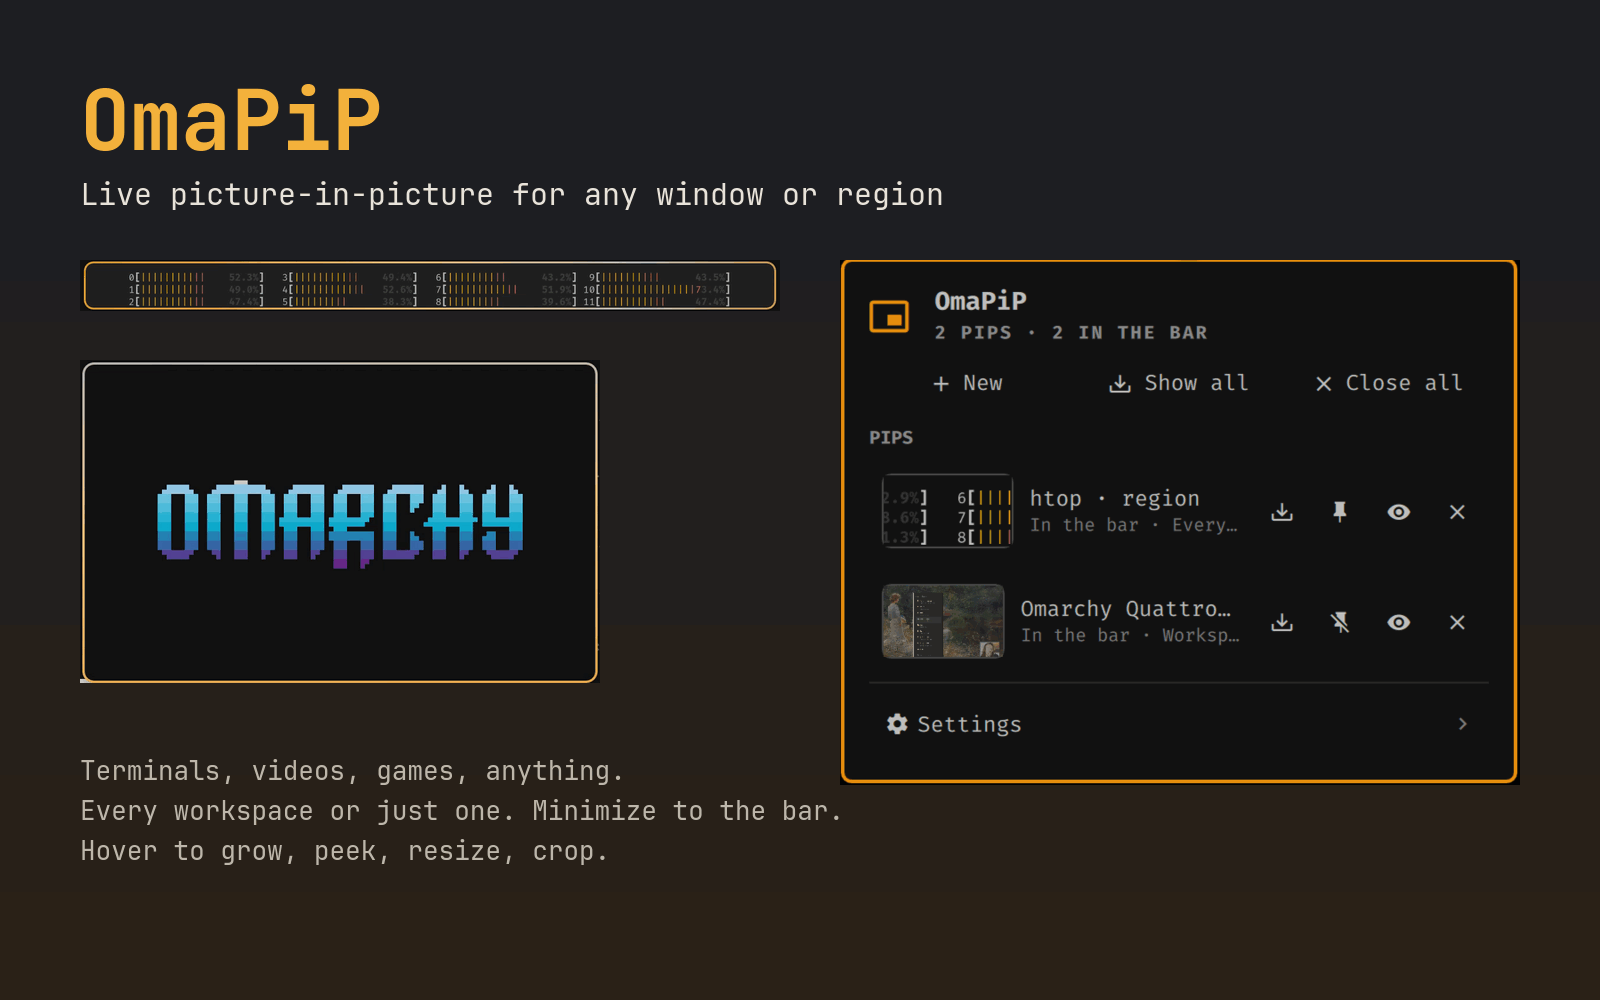
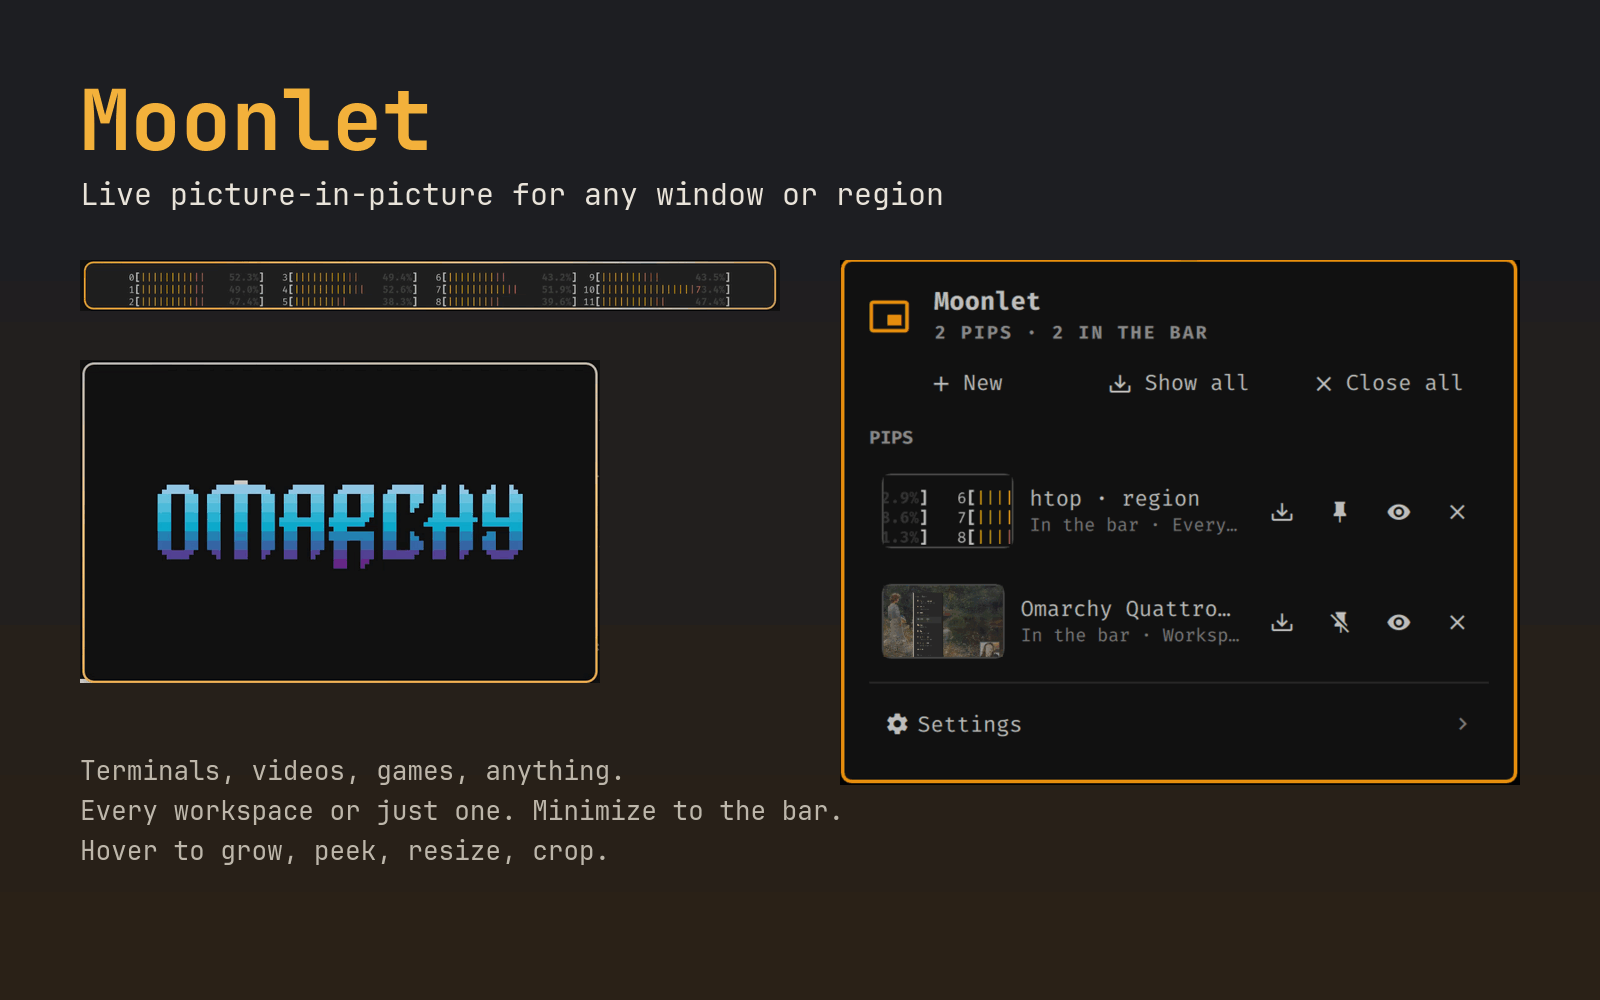
Rename to Moonlet; keep saved PiPs across a shell restart
OmaPiP was already taken by another project, so the plugin is now
Moonlet: id io.github.avillagran.moonlet, IPC target moonlet, files in
~/.config/moonlet and ~/.local/state/moonlet.

Right after a shell restart Hyprland's window list fills in over a few
moments, and pruning PiPs against a half-known list dropped PiPs whose
windows were still open. Prune only once the list holds steady.

Changed region(s): [[0.0312, 0.062, 0.2812, 0.155], [0.5625, 0.279, 0.6562, 0.31]]

diff --git a/Service.qml b/Service.qml
@@ -6,7 +6,7 @@ import qs.Commons
 import qs.Commons as Commons
 import "PipModel.js" as Model
 
-// OmaPiP: live picture-in-picture of any window or screen region.
+// Moonlet: live picture-in-picture of any window or screen region.
 //
 // Owns the PiPs and their settings, follows Hyprland's windows, hosts one
 // transparent layer per monitor for the floating PiPs, the picker, and the
@@ -21,10 +21,10 @@ Item {
   property var shell: null
   property var manifest: null
 
-  readonly property string pluginId: "io.github.avillagran.omapip"
+  readonly property string pluginId: "io.github.avillagran.moonlet"
   readonly property string home: Quickshell.env("HOME")
-  readonly property string configPath: (Quickshell.env("XDG_CONFIG_HOME") || home + "/.config") + "/omapip/settings.json"
-  readonly property string statePath: (Quickshell.env("XDG_STATE_HOME") || home + "/.local/state") + "/omapip/pips.json"
+  readonly property string configPath: (Quickshell.env("XDG_CONFIG_HOME") || home + "/.config") + "/moonlet/settings.json"
+  readonly property string statePath: (Quickshell.env("XDG_STATE_HOME") || home + "/.local/state") + "/moonlet/pips.json"
 
   Commons.Translations { id: strings; directory: Qt.resolvedUrl("i18n") }
   readonly property alias strings: strings
@@ -269,7 +269,7 @@ Item {
   }
 
   function notify(text) {
-    Quickshell.execDetached(["omarchy-notification-send", "--app-name", "OmaPiP", "-g", Model.GLYPHS.pip, "OmaPiP", String(text)])
+    Quickshell.execDetached(["omarchy-notification-send", "--app-name", "Moonlet", "-g", Model.GLYPHS.pip, "Moonlet", String(text)])
   }
 
   function monitorRect(name) {
@@ -567,13 +567,28 @@ Item {
     // are gone by now are dropped once the window list is known.
     pips = state.pips
     stateLoaded = true
+    Hyprland.refreshToplevels()
+    pruneTimer.lastCount = -1
+    pruneTimer.checks = 0
     pruneTimer.restart()
   }
 
+  // Right after a shell restart the window list fills in over a few
+  // moments; pruning against a half-known list dropped PiPs of windows that
+  // were still there. Wait until it holds steady first.
   Timer {
     id: pruneTimer
+    property int lastCount: -1
+    property int checks: 0
     interval: 1500
     onTriggered: {
+      var n = Hyprland.toplevels.values.length
+      if ((n === 0 || n !== lastCount) && checks < 20) {
+        lastCount = n
+        checks++
+        restart()
+        return
+      }
       var keep = root.pips.filter(function(p) { return p.kind !== "window" || !!root.toplevelMap[p.address] })
       if (keep.length !== root.pips.length) root.setPips(keep)
     }
@@ -596,9 +611,9 @@ Item {
   }
 
   // ---------------------------------------------------------------- IPC
-  // omarchy-shell omapip <method>
+  // omarchy-shell moonlet <method>
   ShellIpc {
-    target: "omapip"
+    target: "moonlet"
 
     function pick(): void { root.pick() }
     function toggle(): void { root.toggleAll() }

diff --git a/BarWidget.qml b/BarWidget.qml
@@ -13,13 +13,13 @@ import "PipModel.js" as Model
 // PiP and holds the cfg.
 Panel {
   id: root
-  moduleName: "io.github.avillagran.omapip"
-  ipcTarget: "io.github.avillagran.omapip"
+  moduleName: "io.github.avillagran.moonlet"
+  ipcTarget: "io.github.avillagran.moonlet"
 
   Commons.Translations { id: strings; directory: Qt.resolvedUrl("i18n") }
 
   readonly property var service: bar && bar.shell && typeof bar.shell.serviceFor === "function"
-    ? bar.shell.serviceFor("io.github.avillagran.omapip") : null
+    ? bar.shell.serviceFor("io.github.avillagran.moonlet") : null
   readonly property var cfg: service ? service.settings : Model.normalizeSettings({})
   readonly property var motion: service ? service.motion : Model.motion("extreme")
   readonly property var pips: service ? service.pips : []
@@ -334,7 +334,7 @@ Panel {
 
           PanelHero {
             width: parent.width
-            title: "OmaPiP"
+            title: "Moonlet"
             meta: root.pips.length === 0 ? strings.t("panel.empty")
               : strings.tn("panel.count", root.pips.length).arg(Commons.I18n.formatNumber(root.pips.length))
                 + (root.dockedPips.length > 0 ? " · " + strings.tn("panel.docked", root.dockedPips.length).arg(Commons.I18n.formatNumber(root.dockedPips.length)) : "")

diff --git a/PipLayer.qml b/PipLayer.qml
@@ -66,7 +66,7 @@ PanelWindow {
   exclusionMode: ExclusionMode.Ignore
   WlrLayershell.layer: settings.layer === "overlay" ? WlrLayer.Overlay : WlrLayer.Top
   WlrLayershell.keyboardFocus: WlrKeyboardFocus.None
-  WlrLayershell.namespace: "omapip"
+  WlrLayershell.namespace: "moonlet"
 
   // Input only where a PiP or the peek is.
   mask: Region {

diff --git a/Selector.qml b/Selector.qml
@@ -109,7 +109,7 @@ Item {
     id: overlay
     shownLayer: WlrLayer.Overlay
     shownKeyboardFocus: WlrKeyboardFocus.Exclusive
-    WlrLayershell.namespace: "omapip-picker"
+    WlrLayershell.namespace: "moonlet-picker"
 
     onContentRevealedChanged: if (contentRevealed) { root.loadWindows(); reload.restart(); keys.forceActiveFocus() }
 

diff --git a/PipModel.js b/PipModel.js
@@ -1,6 +1,6 @@
 .pragma library
 
-// Pure logic for OmaPiP: settings, the shape of a PiP, geometry and crops.
+// Pure logic for Moonlet: settings, the shape of a PiP, geometry and crops.
 // No QML types here, so tests/model.test.js can load it in Node.
 
 var VERSION = 1

diff --git a/README.md b/README.md
@@ -1,8 +1,8 @@
-# OmaPiP
+# Moonlet
 
 Live picture-in-picture for anything on your Omarchy desktop: a whole window, a corner of a window, or any region of the screen. Pick it and it floats above everything in a small live window. A terminal running a build, a game, a video in the browser, a dashboard, a chat: if it's on screen, it can be a PiP.
 
-![OmaPiP](preview.png)
+![Moonlet](preview.png)
 
 ## See it
 
@@ -34,7 +34,7 @@ Live picture-in-picture for anything on your Omarchy desktop: a whole window, a 
 
 | Panel | Settings |
 | --- | --- |
-| ![The OmaPiP panel](docs/screenshots/panel.jpg) | ![The settings list](docs/screenshots/settings.jpg) |
+| ![The Moonlet panel](docs/screenshots/panel.jpg) | ![The settings list](docs/screenshots/settings.jpg) |
 
 ## What it does
 
@@ -71,30 +71,30 @@ A PiP set to **click through** lets every click pass to what is underneath. Turn
 
 ### Keyboard shortcuts
 
-OmaPiP answers on the shell's IPC, so any key can drive it. For example, in `~/.config/hypr/bindings.lua`:
+Moonlet answers on the shell's IPC, so any key can drive it. For example, in `~/.config/hypr/bindings.lua`:
 
 ```lua
-o.bind("SUPER + ALT + P", "New PiP", "omarchy-shell omapip pick")
-o.bind("SUPER + ALT + O", "Dock or show PiPs", "omarchy-shell omapip toggle")
+o.bind("SUPER + ALT + P", "New PiP", "omarchy-shell moonlet pick")
+o.bind("SUPER + ALT + O", "Dock or show PiPs", "omarchy-shell moonlet toggle")
 -- A fixed PiP: the top of the window titled "htop"
-o.bind("SUPER + ALT + H", "htop PiP", "omarchy-shell omapip add title:htop 0,0,840,80")
+o.bind("SUPER + ALT + H", "htop PiP", "omarchy-shell moonlet add title:htop 0,0,840,80")
 ```
 
 | Command | What it does |
 | --- | --- |
-| `omarchy-shell omapip pick` | Open the picker |
-| `omarchy-shell omapip toggle` | Dock every PiP, or show them all |
-| `omarchy-shell omapip dockAll` / `showAll` / `closeAll` | What they say |
-| `omarchy-shell omapip add <target> [x,y,w,h]` | A PiP without the picker. Target: `screen`, `screen:NAME`, a window address, `class:TEXT` or `title:TEXT`. The rectangle is inside the window or screen, in logical pixels; leave it out for all of it. Prints the new PiP's id |
-| `omarchy-shell omapip dock <id>` / `undock <id>` / `close <id>` / `sticky <id>` | Act on one PiP |
-| `omarchy-shell omapip place <id> <x> <y> <width>` | Move and size a PiP (empty values keep the current one) |
-| `omarchy-shell omapip list` | The PiPs, with their positions, as JSON |
-| `omarchy-shell omapip settings` | The settings, as JSON |
-| `omarchy-shell omapip set <key> <value>` | Change a setting |
+| `omarchy-shell moonlet pick` | Open the picker |
+| `omarchy-shell moonlet toggle` | Dock every PiP, or show them all |
+| `omarchy-shell moonlet dockAll` / `showAll` / `closeAll` | What they say |
+| `omarchy-shell moonlet add <target> [x,y,w,h]` | A PiP without the picker. Target: `screen`, `screen:NAME`, a window address, `class:TEXT` or `title:TEXT`. The rectangle is inside the window or screen, in logical pixels; leave it out for all of it. Prints the new PiP's id |
+| `omarchy-shell moonlet dock <id>` / `undock <id>` / `close <id>` / `sticky <id>` | Act on one PiP |
+| `omarchy-shell moonlet place <id> <x> <y> <width>` | Move and size a PiP (empty values keep the current one) |
+| `omarchy-shell moonlet list` | The PiPs, with their positions, as JSON |
+| `omarchy-shell moonlet settings` | The settings, as JSON |
+| `omarchy-shell moonlet set <key> <value>` | Change a setting |
 
 ## Settings
 
-Open the panel and unfold **Settings**, or edit `~/.config/omapip/settings.json` (it reloads on save), or use `omarchy-shell omapip set`.
+Open the panel and unfold **Settings**, or edit `~/.config/moonlet/settings.json` (it reloads on save), or use `omarchy-shell moonlet set`.
 
 | Key | Values | Default |
 | --- | --- | --- |
@@ -122,28 +122,28 @@ Open the panel and unfold **Settings**, or edit `~/.config/omapip/settings.json`
 ## Install
 
 ```sh
-omarchy plugin add https://github.com/avillagran/omapip --enable
+omarchy plugin add https://github.com/avillagran/moonlet --enable
 ```
 
 The bar icon goes to the right section; move it like any other widget.
 
 ### Requirements
 
-Omarchy 4.x with its Quickshell shell and Hyprland. Everything OmaPiP uses ships with Omarchy: Quickshell's screen capture, `omarchy-shell`, and `omarchy-notification-send`. Node.js is needed only to run the tests.
+Omarchy 4.x with its Quickshell shell and Hyprland. Everything Moonlet uses ships with Omarchy: Quickshell's screen capture, `omarchy-shell`, and `omarchy-notification-send`. Node.js is needed only to run the tests.
 
 ## Remove
 
 ```sh
-omarchy plugin remove io.github.avillagran.omapip
+omarchy plugin remove io.github.avillagran.moonlet
 ```
 
-Then delete `~/.config/omapip/` and `~/.local/state/omapip/` if you want its settings and saved PiPs gone too.
+Then delete `~/.config/moonlet/` and `~/.local/state/moonlet/` if you want its settings and saved PiPs gone too.
 
 ## What it does on your system
 
 - Captures windows and screen regions with Quickshell's built-in screen copy, inside the shell, only while a PiP, thumbnail or preview shows them. Nothing is recorded, saved to disk, or sent anywhere.
 - Reads the window list from Hyprland to know which window is where, and asks Hyprland to focus a window when you double-click its PiP.
-- Writes two files: `~/.config/omapip/settings.json` and `~/.local/state/omapip/pips.json` (which windows and regions you have as PiPs, and where). PiPs of windows that no longer exist are dropped from it.
+- Writes two files: `~/.config/moonlet/settings.json` and `~/.local/state/moonlet/pips.json` (which windows and regions you have as PiPs, and where). PiPs of windows that no longer exist are dropped from it.
 - Sends one notification, with fixed text, if you try to open more than 12 PiPs.
 - Runs no other commands and makes no network requests.
 
